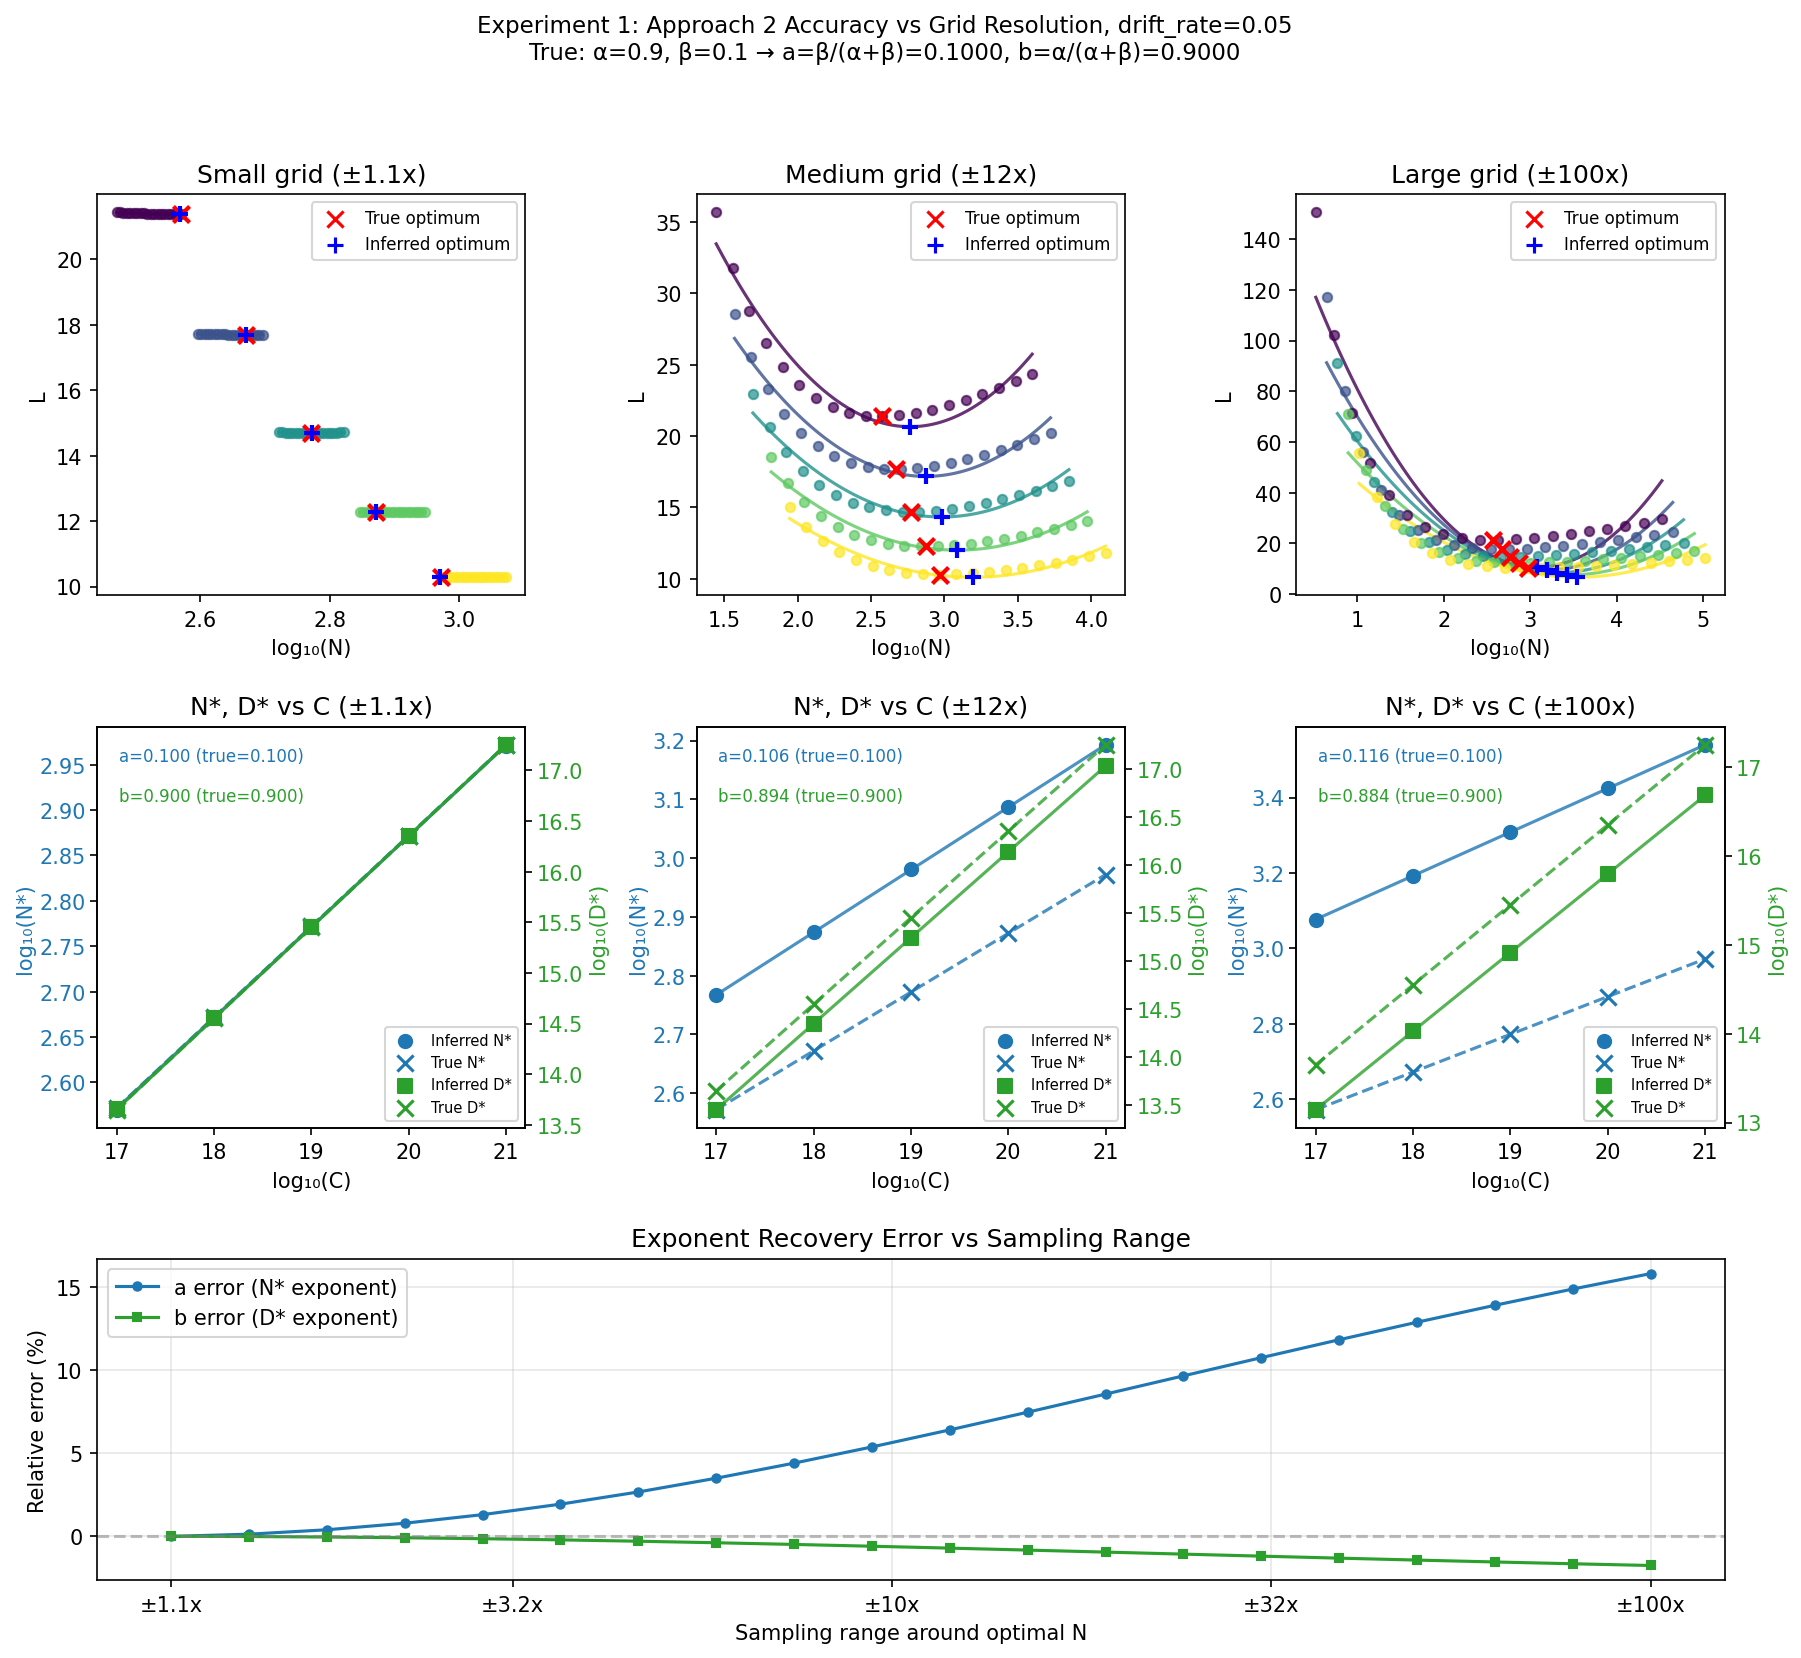
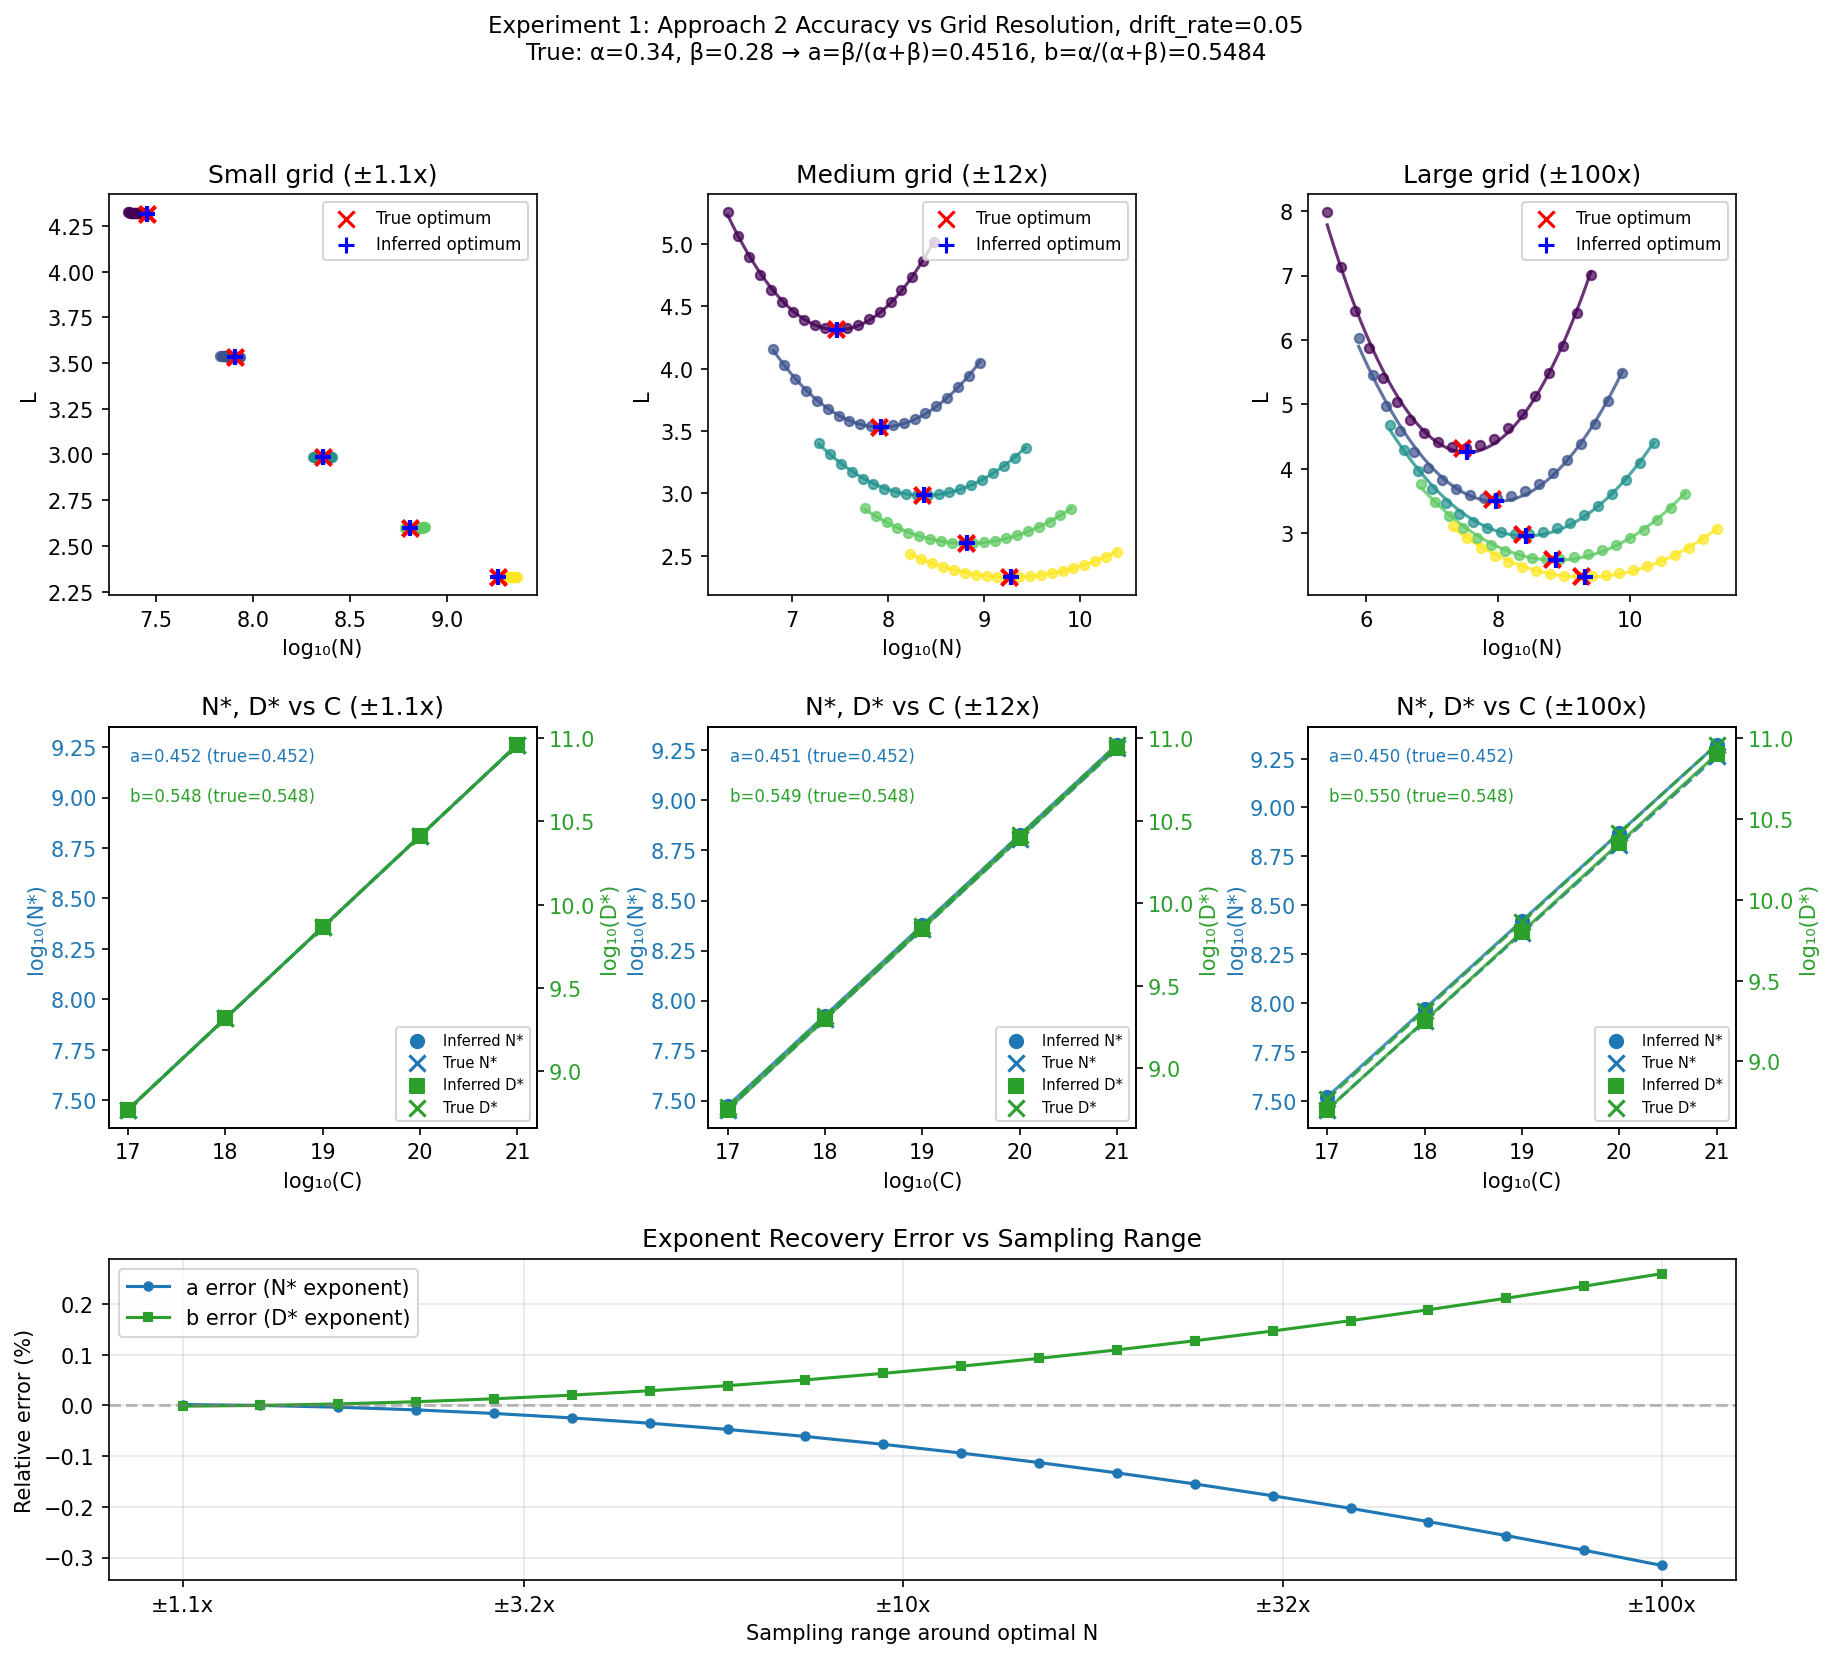
Use canonical Chinchilla parameters and add parabola fit validation
- Replace hardcoded alpha/beta with CHINCHILLA_PARAMS values in experiment 1
- Add min_curvature check to fit_parabola() to detect degenerate fits
- Clarify spec: C=6ND used for sampling and inferring true optima only

diff --git a/src/scaling_law_analysis/chinchilla.py b/src/scaling_law_analysis/chinchilla.py
@@ -206,6 +206,7 @@ class Approach2Result:
 def fit_parabola(
     log_x: np.ndarray,
     L: np.ndarray,
+    min_curvature: float = 1e-10,
 ) -> ParabolaFit:
     """Fit a parabola to loss vs log-x data.
 
@@ -214,13 +215,26 @@ def fit_parabola(
     Args:
         log_x: Log10 of x values (e.g., parameter counts N or token counts D)
         L: Loss values
+        min_curvature: Minimum absolute value for quadratic coefficient.
+                       Raises ValueError if |a| < min_curvature.
 
     Returns:
         ParabolaFit with coefficients and minimum location
+
+    Raises:
+        ValueError: If quadratic coefficient is too small (degenerate/flat parabola)
     """
     # Fit quadratic: L = a*log(x)² + b*log(x) + c
     coeffs = np.polyfit(log_x, L, 2)
     a, b, c = coeffs
+
+    # Check for degenerate parabola (flat loss surface)
+    if abs(a) < min_curvature:
+        raise ValueError(
+            f"Parabola fit has near-zero curvature (a={a:.2e}). "
+            f"This indicates a flat loss surface or insufficient data. "
+            f"Consider using more points or a narrower sampling range."
+        )
 
     # Minimum at log(x*) = -b / (2a)
     log_x_opt = -b / (2 * a)

diff --git a/src/scaling_law_analysis/experiments/exp1_empirical_error.py b/src/scaling_law_analysis/experiments/exp1_empirical_error.py
@@ -453,8 +453,8 @@ def main():
     n_points = 15  # Points per IsoFLOP curve
     drift_rate = 0.05  # Linear drift rate (varies with compute budget)
     center_scale = 1.0  # Constant multiplier for all sampling centers
-    alpha = 0.9  # Parameter scaling exponent
-    beta = 0.1  # Data scaling exponent
+    alpha = CHINCHILLA_PARAMS["alpha"]  # Parameter scaling exponent
+    beta = CHINCHILLA_PARAMS["beta"]  # Data scaling exponent
     A = CHINCHILLA_PARAMS["A"]  # Parameter scaling coefficient
     B = CHINCHILLA_PARAMS["B"]  # Data scaling coefficient
     E = CHINCHILLA_PARAMS["E"]  # Irreducible loss

diff --git a/specs/project.md b/specs/project.md
@@ -28,7 +28,7 @@ The purpose of this project is to:
    - Fit parabolas to L vs log(N) for each budget → extract N*
    - Fit parabolas to L vs log(D) for each budget → extract D*
    - Fit power laws: N* ∝ C^a and D* ∝ C^b
-   - Note: The C=6ND approximation is used only for IsoFLOP sampling, never in fitting or visualization
+   - Note: The C=6ND approximation should ONLY be used for IsoFLOP sampling and inferring true optimal values, never for exponent inference/fitting
 
 3. Compare recovered exponents to true values:
    - True a = β/(α+β) (N* exponent)
